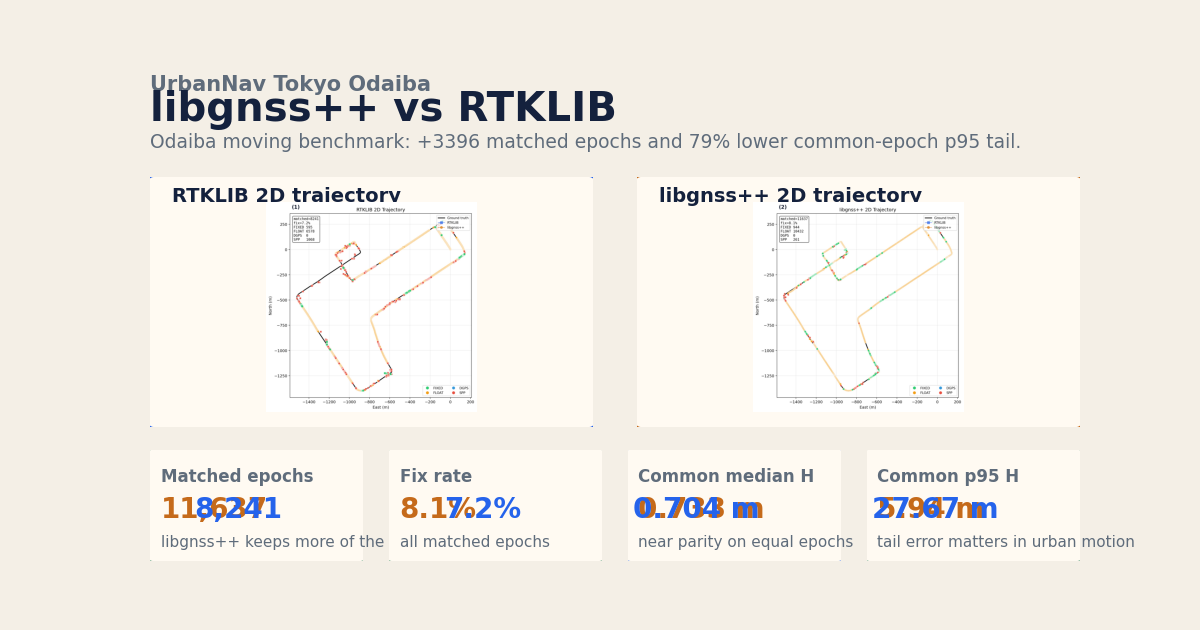
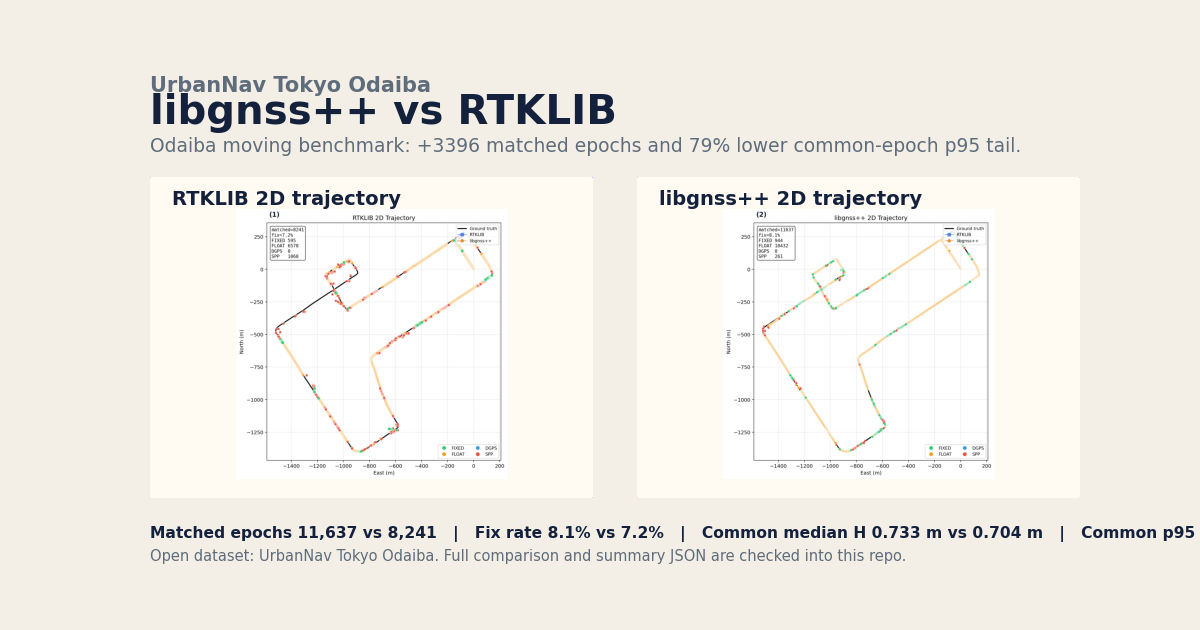
Refine Odaiba social card layout

diff --git a/scripts/generate_odaiba_social_card.py b/scripts/generate_odaiba_social_card.py
@@ -23,7 +23,6 @@ TEXT = "#14213d"
 MUTED = "#5f6c7b"
 LIB = "#c56a1a"
 RTKLIB = "#2563eb"
-WIN = "#18794e"
 PANEL = "#fffaf2"
 
 
@@ -39,28 +38,6 @@ def load_image(path: Path) -> object | None:
     from PIL import Image
 
     return Image.open(path).convert("RGB")
-
-
-def draw_metric(ax, title: str, lib_value: str, rtklib_value: str, kicker: str, lib_better: bool) -> None:
-    from matplotlib.patches import FancyBboxPatch
-
-    ax.set_axis_off()
-    patch = FancyBboxPatch(
-        (0, 0),
-        1,
-        1,
-        boxstyle="round,pad=0.012,rounding_size=0.035",
-        linewidth=1.2,
-        edgecolor=WIN if lib_better else RTKLIB,
-        facecolor=PANEL,
-    )
-    ax.add_patch(patch)
-    ax.set_xlim(0, 1)
-    ax.set_ylim(0, 1)
-    ax.text(0.05, 0.76, title, fontsize=12, color=MUTED, weight="bold", va="center")
-    ax.text(0.05, 0.46, lib_value, fontsize=20, color=LIB, weight="bold", va="center")
-    ax.text(0.62, 0.46, rtklib_value, fontsize=20, color=RTKLIB, weight="bold", va="center", ha="right")
-    ax.text(0.05, 0.16, kicker, fontsize=11, color=MUTED, va="center")
 
 
 def draw_image_panel(ax, title: str, image: object | None, edge_color: str) -> None:
@@ -124,7 +101,7 @@ def main() -> None:
     lib_img = load_image(lib_2d_path)
 
     fig = plt.figure(figsize=(12, 6.3), dpi=100, facecolor=BG)
-    grid = fig.add_gridspec(3, 2, height_ratios=[0.34, 1.08, 0.48], hspace=0.16, wspace=0.10)
+    grid = fig.add_gridspec(3, 2, height_ratios=[0.30, 1.16, 0.16], hspace=0.12, wspace=0.10)
 
     ax_head = fig.add_subplot(grid[0, :])
     ax_head.set_axis_off()
@@ -145,38 +122,29 @@ def main() -> None:
     ax_lib = fig.add_subplot(grid[1, 1])
     draw_image_panel(ax_lib, "libgnss++ 2D trajectory", lib_img, LIB)
 
-    metric_grid = grid[2, :].subgridspec(1, 4, wspace=0.12)
-    draw_metric(
-        fig.add_subplot(metric_grid[0, 0]),
-        "Matched epochs",
-        f"{int(lib_summary['epochs']):,}",
-        f"{int(rtklib_summary['epochs']):,}",
-        "libgnss++ keeps more of the drive",
-        True,
+    ax_footer = fig.add_subplot(grid[2, :])
+    ax_footer.set_axis_off()
+    ax_footer.text(
+        0.00,
+        0.60,
+        (
+            f"Matched epochs {int(lib_summary['epochs']):,} vs {int(rtklib_summary['epochs']):,}   "
+            f"|   Fix rate {lib_summary['fix_rate_pct']:.1f}% vs {rtklib_summary['fix_rate_pct']:.1f}%   "
+            f"|   Common median H {lib_common_summary['median_h_m']:.3f} m vs {rtklib_common_summary['median_h_m']:.3f} m   "
+            f"|   Common p95 H {lib_common_summary['p95_h_m']:.2f} m vs {rtklib_common_summary['p95_h_m']:.2f} m"
+        ),
+        fontsize=11.2,
+        color=TEXT,
+        weight="bold",
+        va="center",
     )
-    draw_metric(
-        fig.add_subplot(metric_grid[0, 1]),
-        "Fix rate",
-        f"{lib_summary['fix_rate_pct']:.1f}%",
-        f"{rtklib_summary['fix_rate_pct']:.1f}%",
-        "all matched epochs",
-        lib_summary["fix_rate_pct"] >= rtklib_summary["fix_rate_pct"],
-    )
-    draw_metric(
-        fig.add_subplot(metric_grid[0, 2]),
-        "Common median H",
-        f"{lib_common_summary['median_h_m']:.3f} m",
-        f"{rtklib_common_summary['median_h_m']:.3f} m",
-        "near parity on equal epochs",
-        lib_common_summary["median_h_m"] <= rtklib_common_summary["median_h_m"],
-    )
-    draw_metric(
-        fig.add_subplot(metric_grid[0, 3]),
-        "Common p95 H",
-        f"{lib_common_summary['p95_h_m']:.2f} m",
-        f"{rtklib_common_summary['p95_h_m']:.2f} m",
-        "tail error matters in urban motion",
-        lib_common_summary["p95_h_m"] <= rtklib_common_summary["p95_h_m"],
+    ax_footer.text(
+        0.00,
+        0.10,
+        "Open dataset: UrbanNav Tokyo Odaiba. Full comparison and summary JSON are checked into this repo.",
+        fontsize=10.5,
+        color=MUTED,
+        va="center",
     )
 
     args.output.parent.mkdir(parents=True, exist_ok=True)

diff --git a/README.md b/README.md
@@ -28,9 +28,9 @@ Current checked-in Odaiba snapshot:
 |---|---|
 | ![RTKLIB 2D trajectory](docs/driving_odaiba_comparison_rtklib_2d.png) | ![libgnss++ 2D trajectory](docs/driving_odaiba_comparison_libgnss_2d.png) |
 
-Additional checked-in artifacts:
-- [Detailed scorecard](docs/driving_odaiba_scorecard.png)
+More detail:
 - [Full comparison figure](docs/driving_odaiba_comparison.png)
+- [Detailed scorecard](docs/driving_odaiba_scorecard.png)
 - [Summary JSON](output/odaiba_summary.json)
 
 ## Benchmark Snapshot
